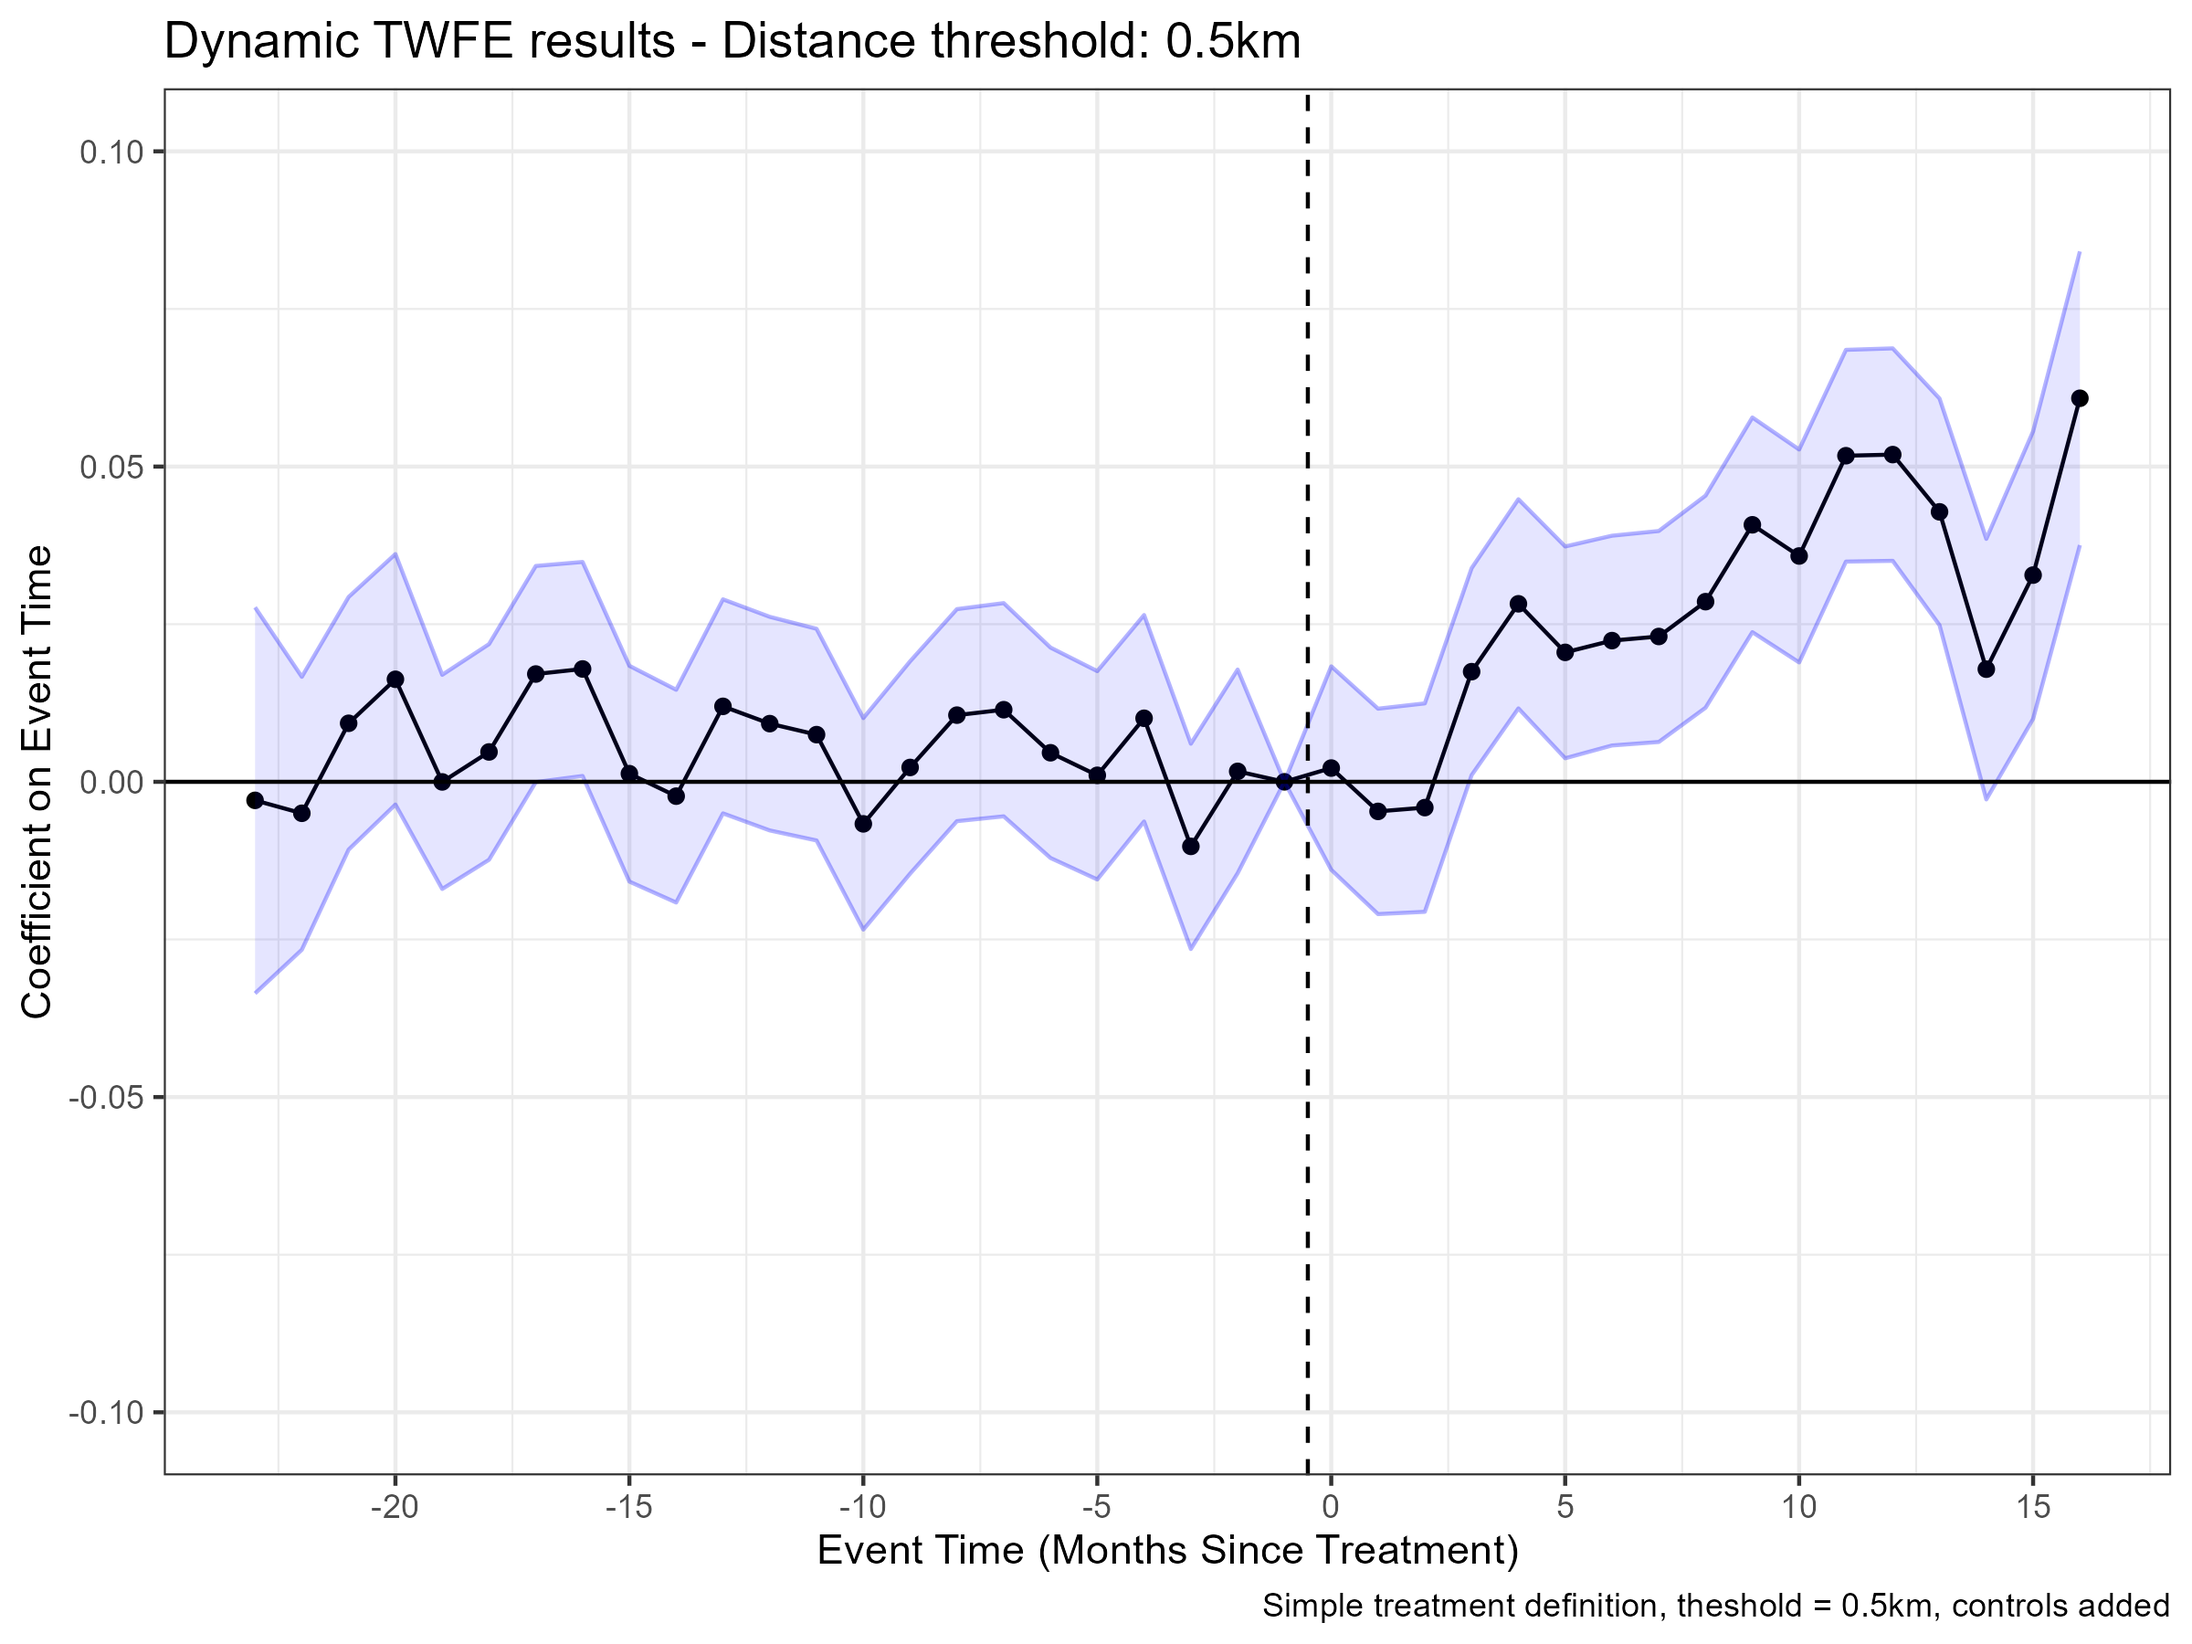
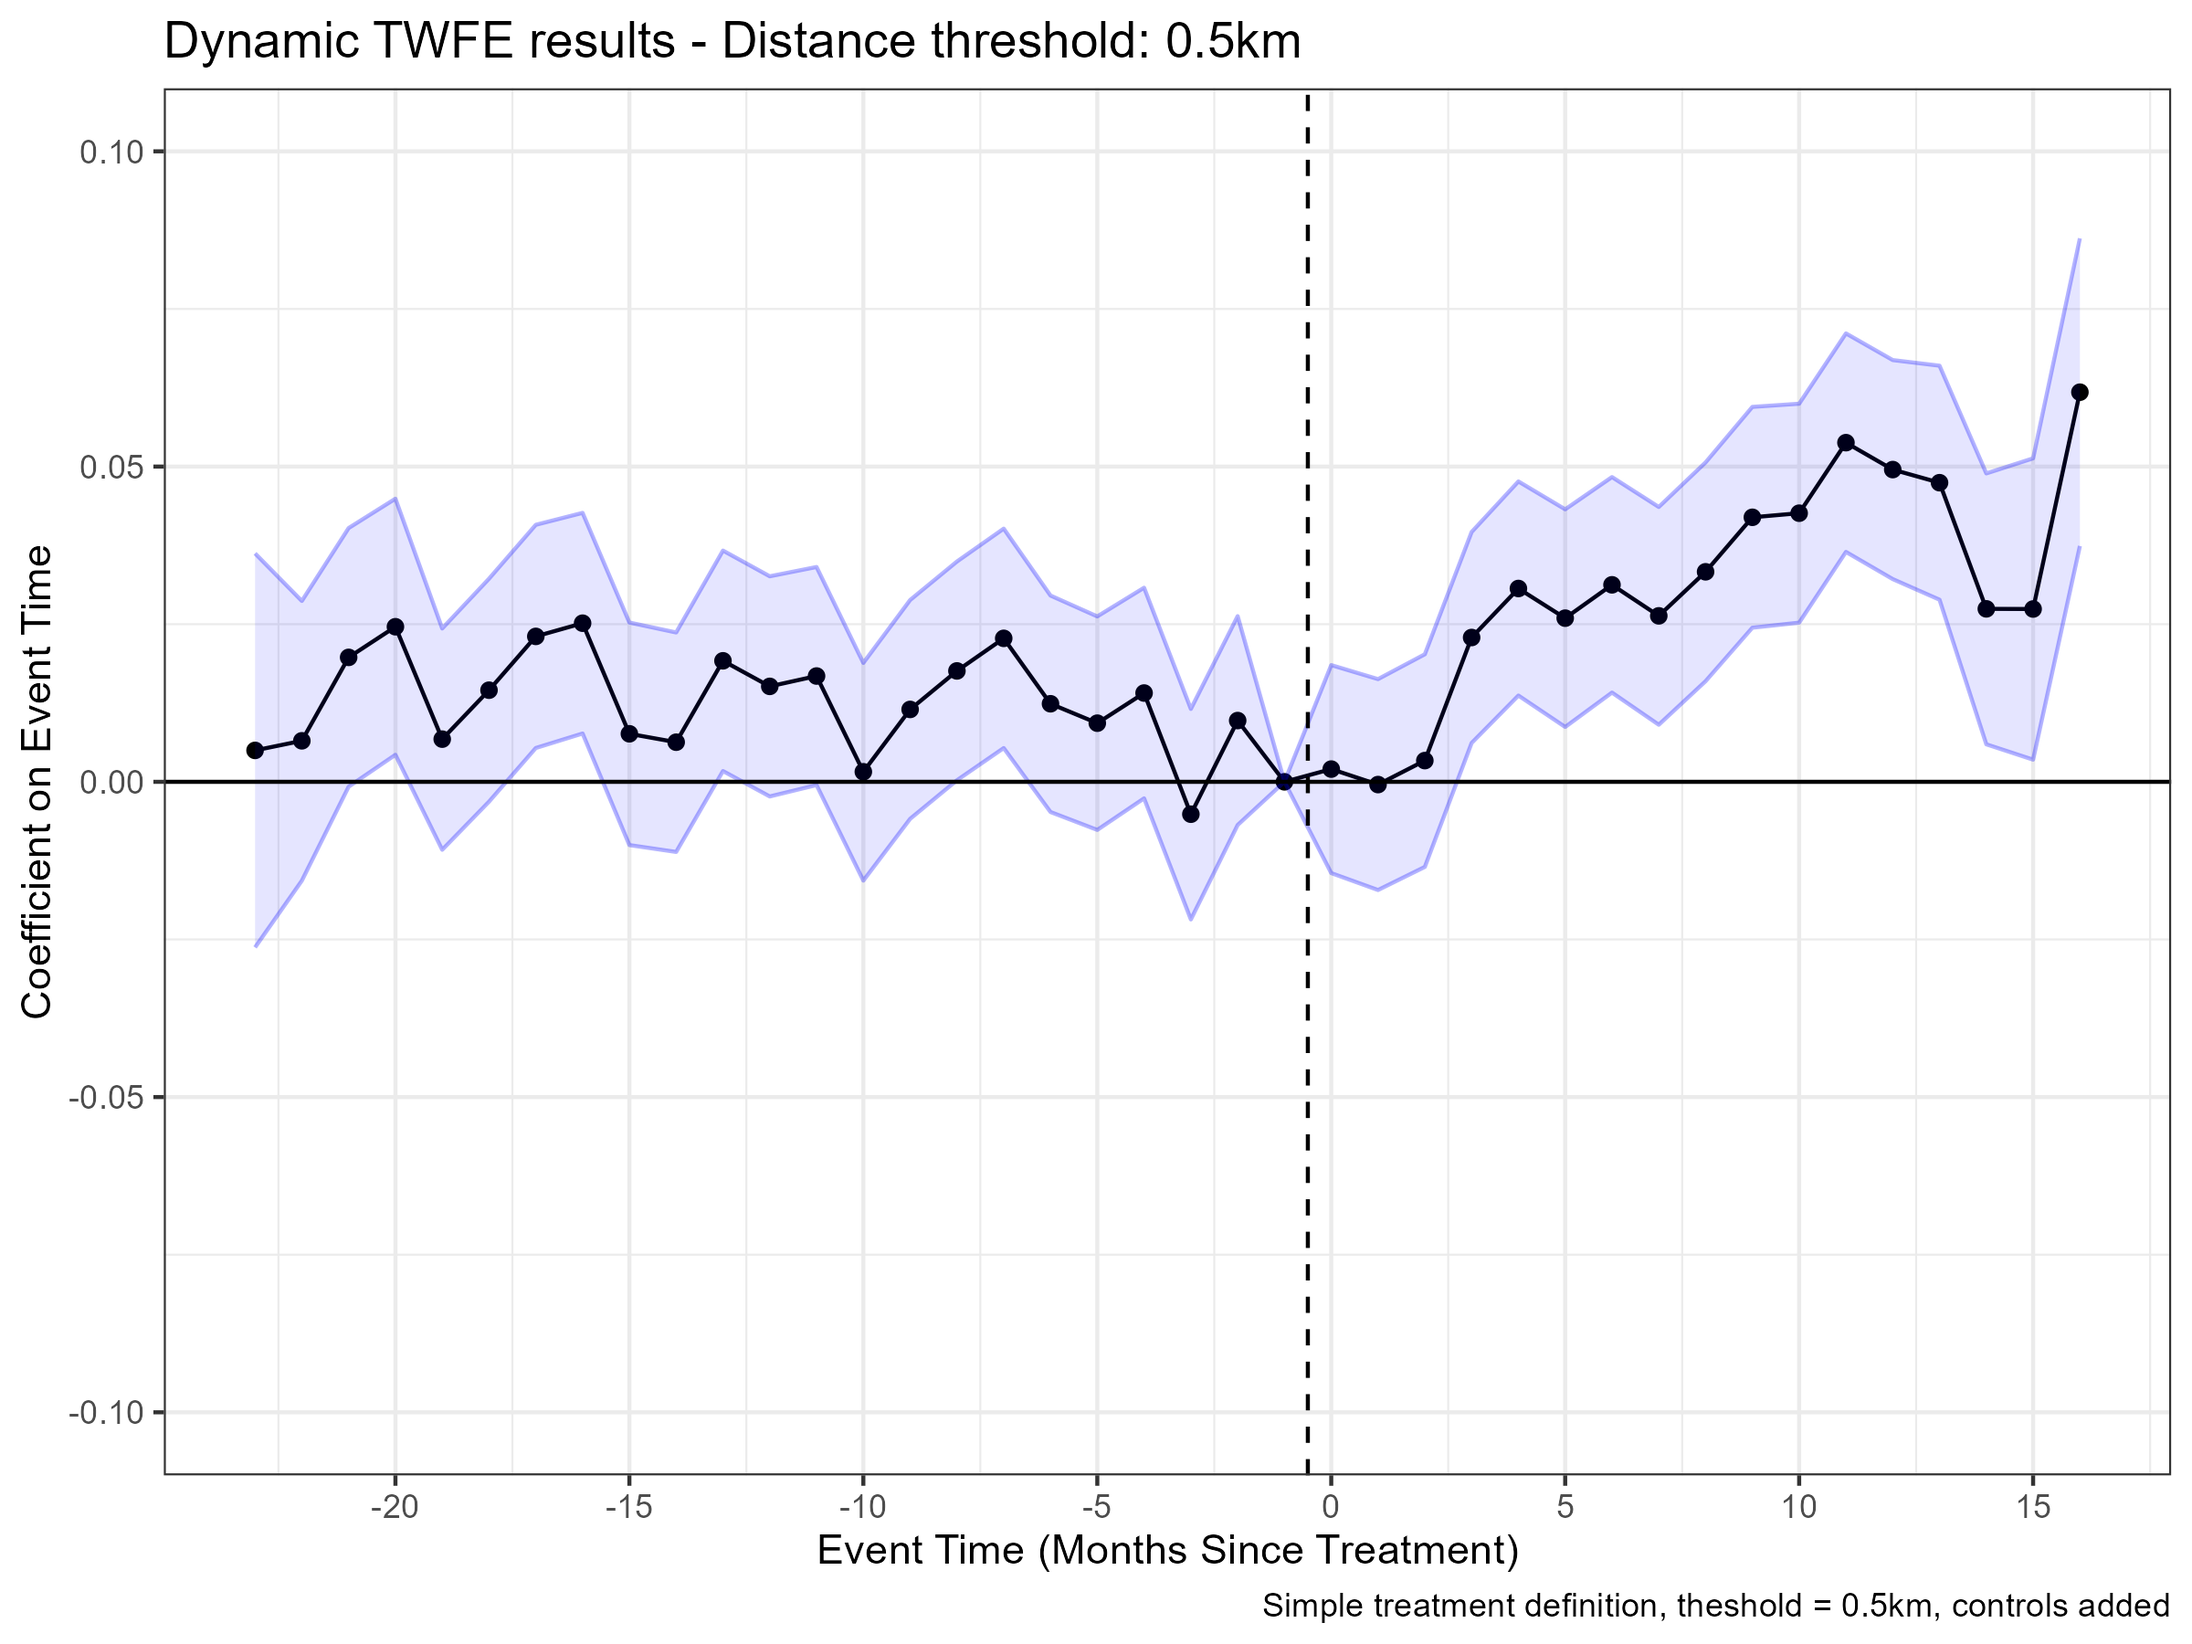
added controls to regressions (issues with covariances though)

Changed region(s): [[0.0938, 0.2178, 0.9375, 0.5911], [0.8438, 0.1867, 0.875, 0.2178]]

diff --git a/to_do.md b/to_do.md
@@ -10,6 +10,7 @@ next things to do:
  - get in the appropriate covariates - e.g. region and station properties
     - population density, local employment rates, land use mix, property values, nearby income/IMD, distance to central London (?) all interacted with time
     - while doing this, maybe undo the splitting of files for the geocoding - we don't need to do this
+    - SORT OUT ISSUES WITH COVARIANCES MATRIX NOT BEING POSITIVE DEF - NEEDS FIXING
 
  - get all notes into one place - move from overleaf
 
